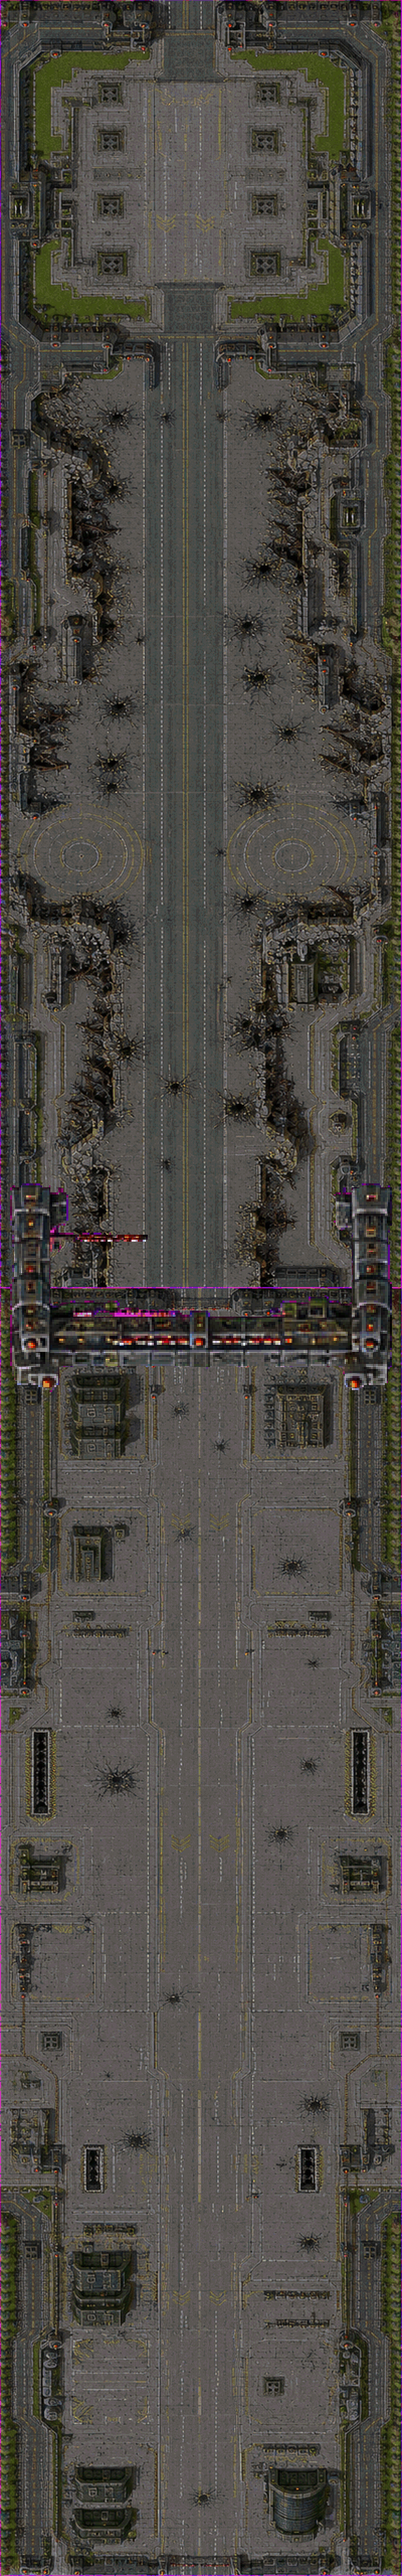
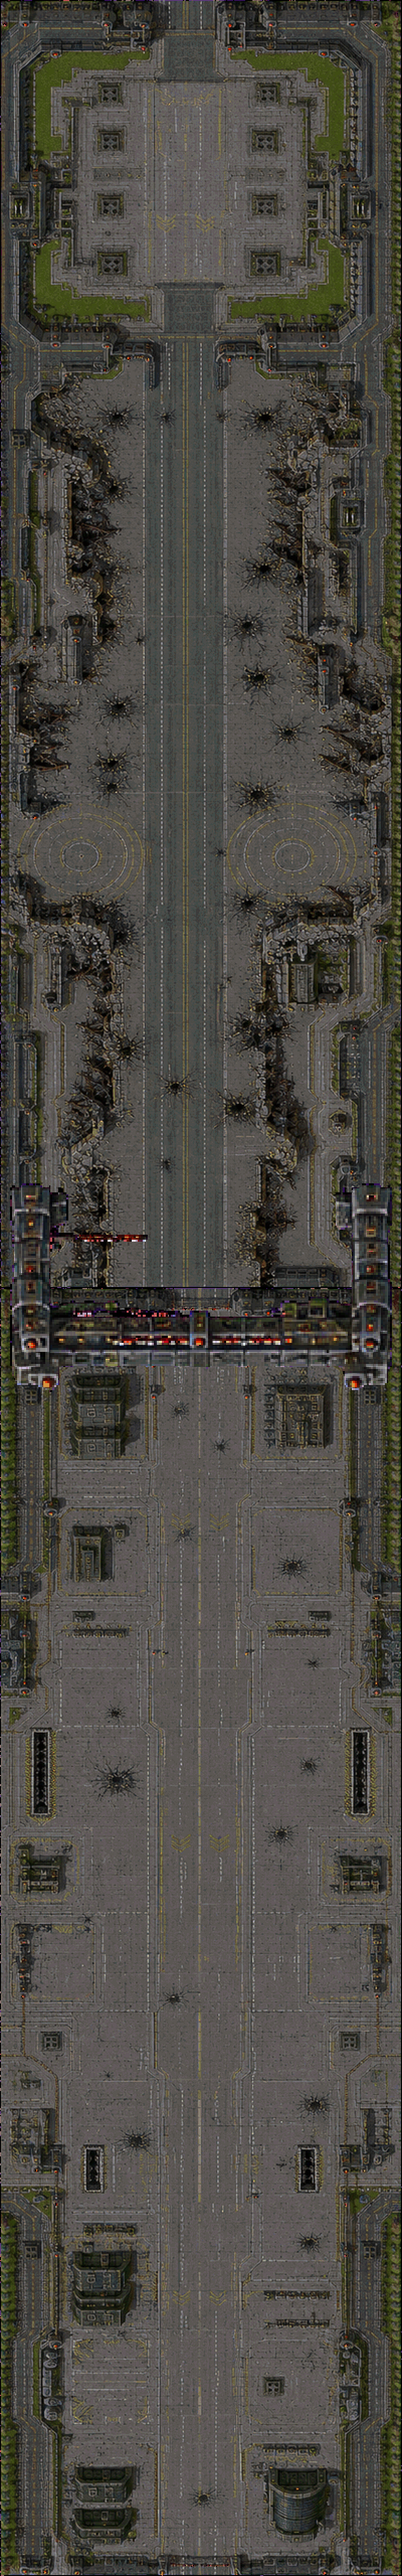
Stage 6 is the Night Cloud Sky Fortress, and the bright sky was crawling not frozen
Mike: "no we're doing the night cloud sky, but in game its loading the bright sky
that doesnt even scroll. so thats why I got confused."

Both halves were one config line, and "it does not scroll" was literally true:

  nsky6_sky resolves to an 800x2400 cell, so rangeSrc is 1888 source pixels.
  scrollLen was 7324. drawLevelMaster consumes the master as
  srcY = rangeSrc - (mapScroll/range)*rangeSrc — so 1888px of sky were spread
  across 7324 of level progress, about a QUARTER of the rate every other stage
  runs at. It scrolled. It crawled, imperceptibly, which reads as frozen.

  And fill was #6cbafd, daylight blue, which is the "bright sky" behind it.

The RC2 rebuild is 800x5120, so scrollLen goes away entirely and the master's own
height sets the length 1:1 like every other stage. fill is sampled from the
plate's own dark quartile.

PURPLE HALOS -> BLACK EDGES, per the standing rule, and it took two passes because
I got the first one wrong. The first used r>110 && b>110 and caught only the
BRIGHT end; the fringe runs down a luminance ramp to #300020 as it fades into the
dark sky, so the dark half survived and the gantries still read pink in game.
Caught by looking at the capture, not by the numbers, which said 13,537 px
converted and sounded like success.

⚠ blackhole800_rc2_master IS EXCLUDED FROM THE SECOND PASS, measured not assumed.
Under the looser test it scores 5.34% against 0.18-1.86% for the others — that is
[…]

Changed region(s): [[0.0, 0.4688, 0.0312, 0.5312], [0.9688, 0.4688, 1.0, 0.5], [0.2812, 0.5, 0.3125, 0.5312]]

diff --git a/assets/game.js b/assets/game.js
@@ -2092,7 +2092,32 @@ function _levelCfg(){
        - the level stopped dead a fifth of the way in, which is exactly the "stopped
        scrolling, couldn't see or attack" Mike hit. The sky TILES, so its height is
        not the stage's length; scrollLen states the length explicitly. */
-    case 6: return {master:'nsky6_sky', liquid:null,           fill:'#6cbafd', tile:1.0, wide:true, scrollLen:7324};
+    /* ============================================================
+       STAGE 6 IS THE NIGHT CLOUD SKY FORTRESS (drop 0810h). Mike: "no we're doing the night cloud
+       sky, but in game its loading the bright sky that doesnt even scroll. so thats why I got
+       confused."
+
+       BOTH HALVES OF THAT ARE ONE CONFIG LINE, and they are worth writing down because "it does
+       not scroll" was literally true and the cause was not the scroller.
+
+         nsky6_sky resolves to an 800x2400 cell, so rangeSrc is 2400-512 = 1888 source pixels.
+         scrollLen was 7324. drawLevelMaster consumes the master as
+         srcY = rangeSrc - (mapScroll/range)*rangeSrc — so 1888px of sky were spread across 7324
+         of level progress, about a QUARTER of the rate every other stage runs at. It did scroll.
+         It crawled, imperceptibly, which reads as frozen.
+
+         And fill was #6cbafd — daylight blue — which is the "bright sky" showing through and
+         behind a daytime plate.
+
+       The RC2 rebuild is 800x5120, so rangeSrc is 4608 and scrollLen goes away entirely: the
+       master's own height defines the length, 1:1, exactly like every other stage. fill is
+       sampled from the plate's own dark quartile so what shows through the punched-alpha holes
+       is night sky rather than daylight.
+
+       ⚠ nsky6_sky and the 51 quarantined files in _superseded/stage6_bg are untouched. Mike's
+       "delete all of stage 6's backgrounds ... this is the only one we'll need" stands as the
+       reason THOSE are gone; this replaces the one that survived, at his word. */
+    case 6: return {master:'skyfort800_rc2_master', liquid:null, fill:'#01031c', tile:1.0, wide:true};
     // 7 NOT ANOTHER SEWER LEVEL — dedicated sewer kit (CF_LevelPack-Lvl7): 800x3616 gameplay
     // scroll + 800x1000 boss arena, with the 256px sludge surface animating through the
     // master's keyed channels. WIDE level (800px world, camera scrolls).
